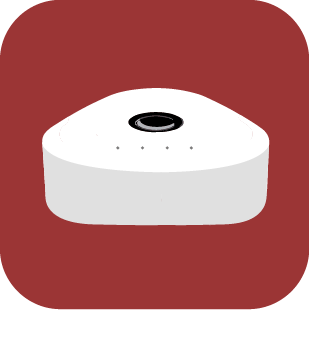
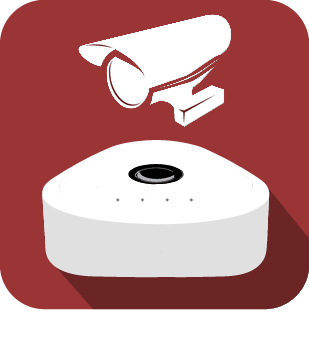
Ajout icone merci @skillix

diff --git a/desktop/php/Freebox_OS.php b/desktop/php/Freebox_OS.php
@@ -118,12 +118,24 @@ $eqLogics = eqLogic::byType($plugin->getId());
 				<?php
 				$status = 0;
 				foreach ($eqLogics as $eqLogic) {
-					if ($eqLogic->getConfiguration('type') == 'parental' || $eqLogic->getConfiguration('type') == 'player' || $eqLogic->getConfiguration('type') == 'alarm_control' || $eqLogic->getConfiguration('type') == 'alarm_sensor' || $eqLogic->getConfiguration('type') == 'camera' || $eqLogic->getConfiguration('type') == 'alarm_remote') {
-						//if ($eqLogic->getConfiguration('type') === 'alarm_sensor' && $eqLogic->getConfiguration('type2') === 'dws') {
-						//	$template = $eqLogic->getConfiguration('type2');
-						//} else {
+					if ($eqLogic->getConfiguration('type') === 'player' || $eqLogic->getConfiguration('type') === 'alarm_control' || $eqLogic->getConfiguration('type') === 'camera' || $eqLogic->getConfiguration('type') === 'light' || $eqLogic->getConfiguration('type') === 'alarm_remote') {
 						$template = $eqLogic->getConfiguration('type');
-						//}
+						$icon = $template;
+					} elseif ($eqLogic->getConfiguration('type') == 'alarm_sensor') {
+						if ($eqLogic->getConfiguration('type2') == 'dws') {
+							$template = $eqLogic->getConfiguration('type2');
+						} else {
+							$template = $eqLogic->getConfiguration('type');
+						}
+						$icon = $template;
+					} elseif ($eqLogic->getConfiguration('type') == 'info') {
+						if (strpos($eqLogic->getConfiguration('type2'), 'shutter') !== false) {
+							$template = 'shutter';
+						} else if ($eqLogic->getConfiguration('type2') == 'plug') {
+							$template = $eqLogic->getConfiguration('type2');
+						} else {
+							$template  = 'default';
+						}
 						$icon = $template;
 					} else {
 						$template = $eqLogic->getLogicalId();
